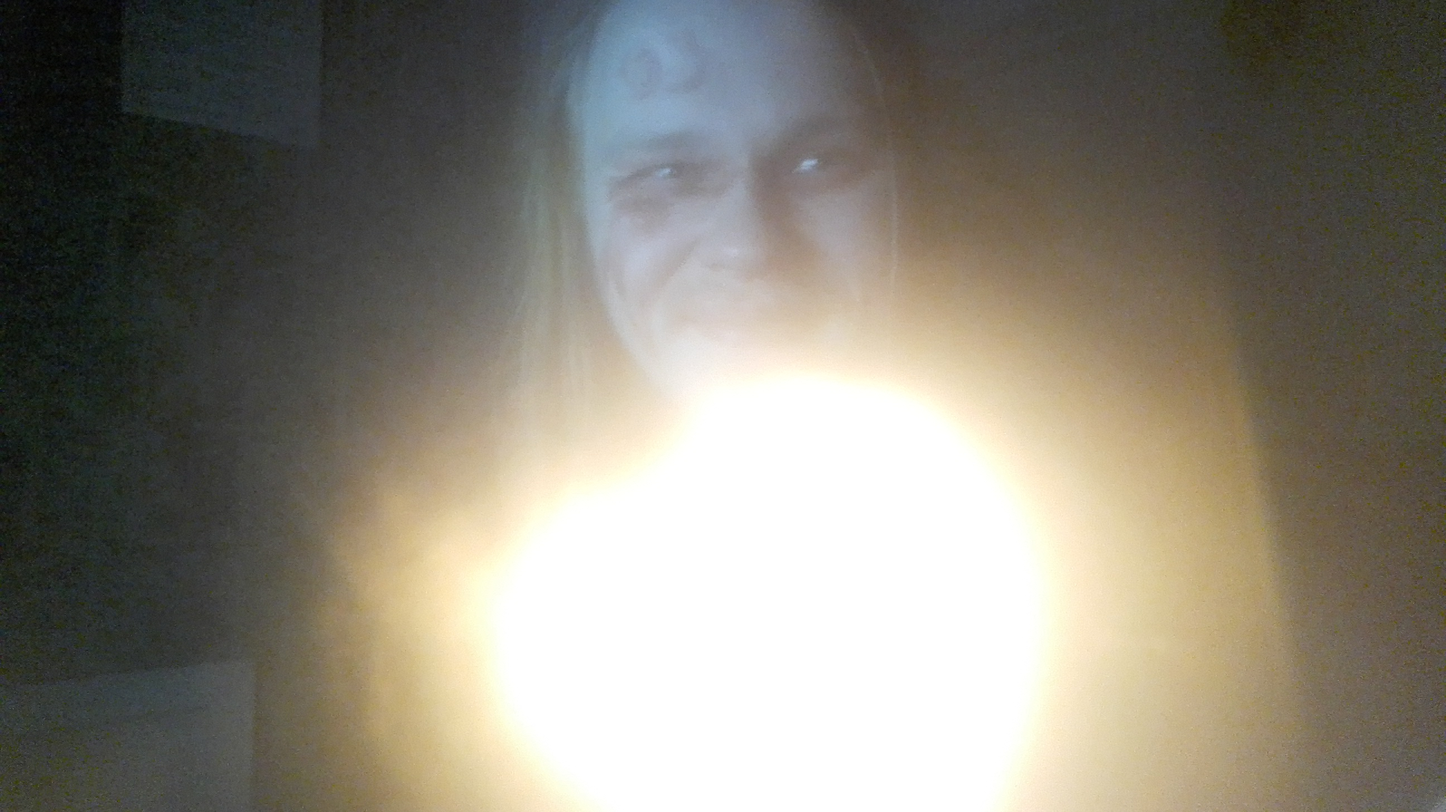
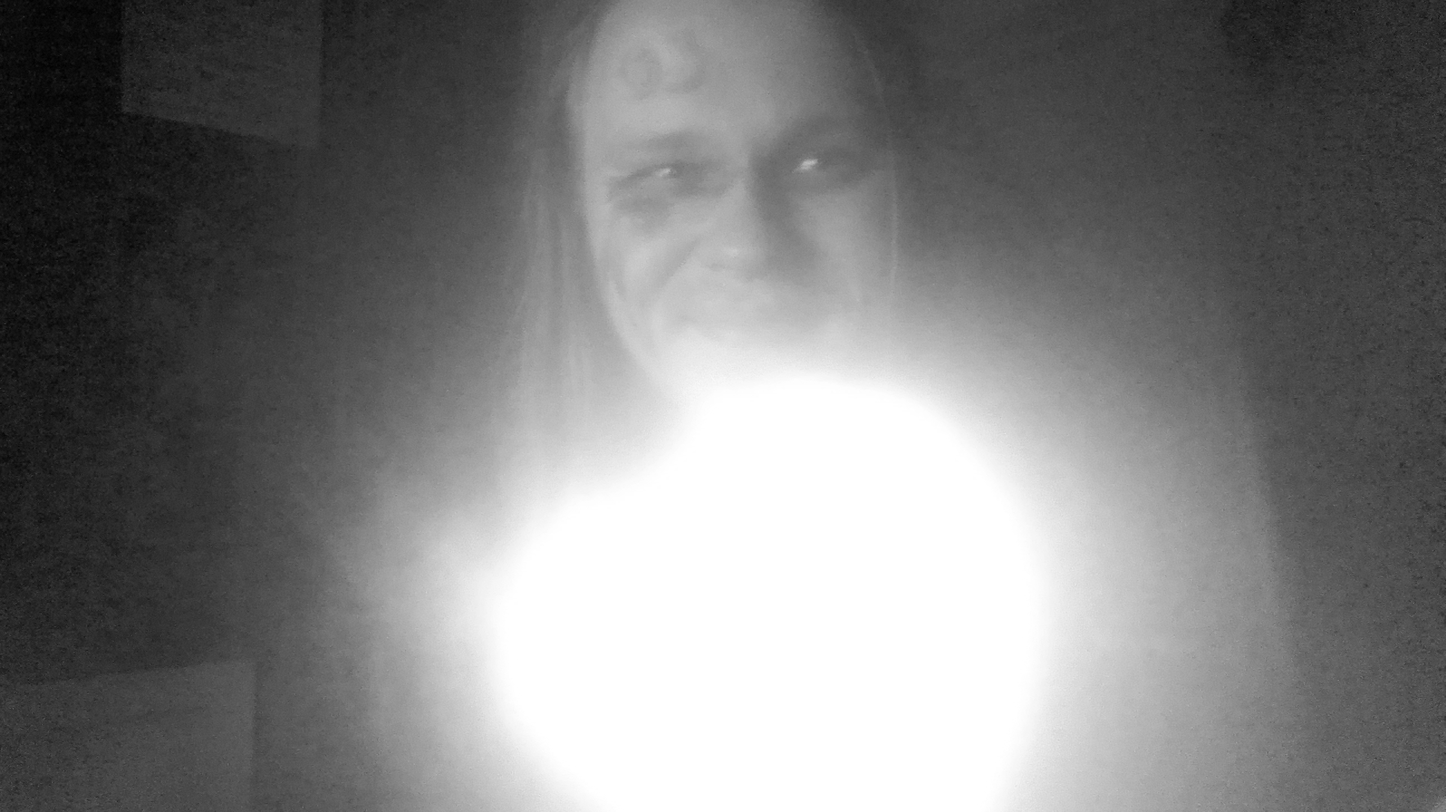
blacken smile, slower animations

Changed region(s): [[0.5312, 0.2473, 0.9375, 1.0], [0.2188, 0.4327, 0.4688, 1.0], [0.375, 0.0, 0.5312, 0.2163]]

diff --git a/_sass/so-simple/utilities/_animations.scss b/_sass/so-simple/utilities/_animations.scss
@@ -9,8 +9,8 @@
 .animated {
   -webkit-animation-fill-mode: both;
   animation-fill-mode: both;
-  -webkit-animation-duration: 1s;
-  animation-duration: 1s;
+  -webkit-animation-duration: 2s;
+  animation-duration: 2s;
 }
 
 /*
